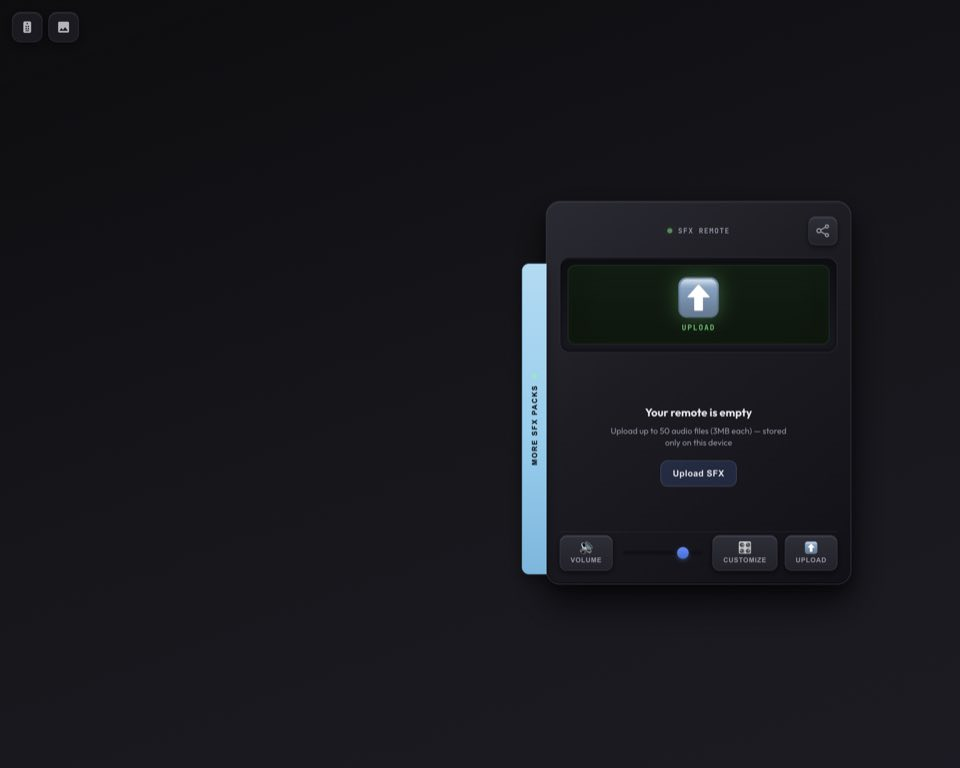
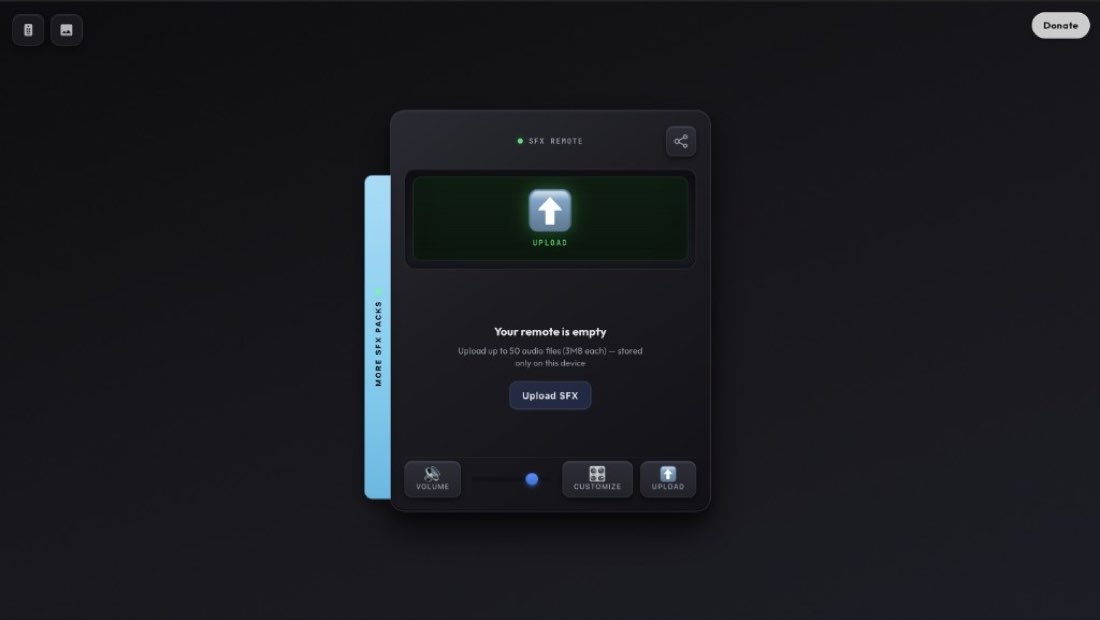
Replace the Noisegoblin post screenshot with a centered capture.

diff --git a/posts/i-got-lazy-with-the-soundboard/index.html b/posts/i-got-lazy-with-the-soundboard/index.html
@@ -543,8 +543,8 @@
           <img
             src="../../noisegoblin-screenshot.jpg"
             alt="Screenshot of Noisegoblin — a DIY SFX remote with upload controls"
-            width="960"
-            height="768"
+            width="1100"
+            height="620"
             loading="lazy"
             decoding="async"
           />
